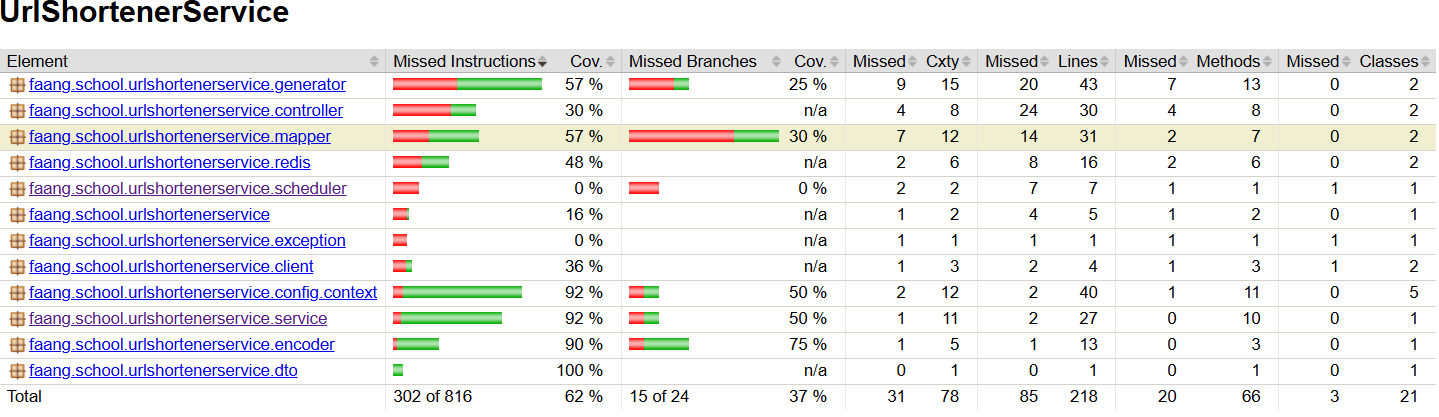
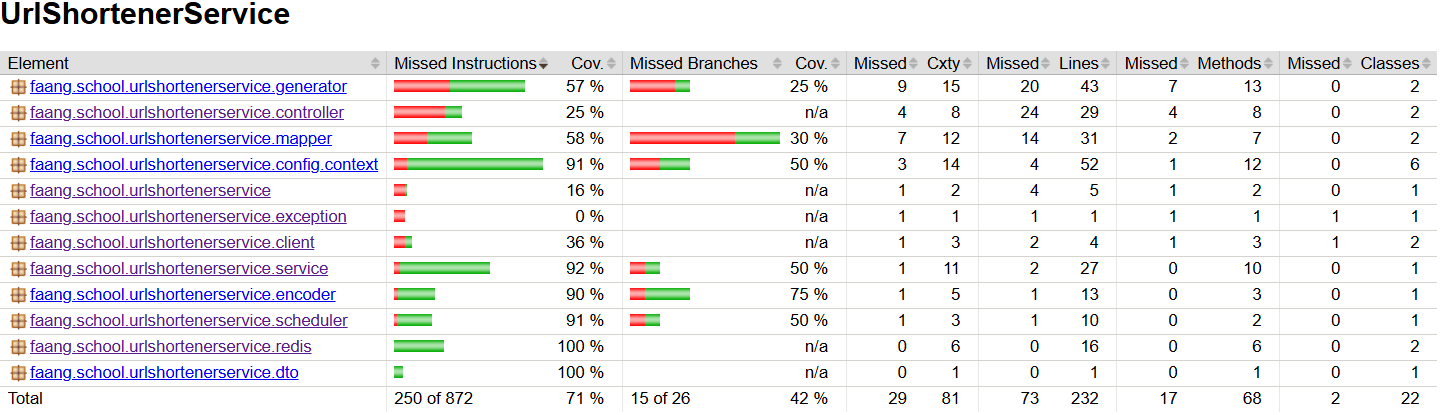
CleanerSchedulerTest, UrlCacheRepositoryTest, UrlCacheServiceTest are added

Changed region(s): [[0.0, 0.1157, 1.0, 0.9831], [0.0, 0.0, 0.214, 0.0578], [0.795, 0.4627, 0.8256, 0.5783]]

diff --git a/src/test/java/faang/school/urlshortenerservice/scheduler/CleanerSchedulerTest.java b/src/test/java/faang/school/urlshortenerservice/scheduler/CleanerSchedulerTest.java
@@ -1,0 +1,56 @@
+package faang.school.urlshortenerservice.scheduler;
+
+import faang.school.urlshortenerservice.entity.Hash;
+import faang.school.urlshortenerservice.mapper.HashMapper;
+import faang.school.urlshortenerservice.repository.HashRepository;
+import faang.school.urlshortenerservice.repository.UrlRepository;
+import org.junit.jupiter.api.BeforeEach;
+import org.junit.jupiter.api.Test;
+import org.junit.jupiter.api.extension.ExtendWith;
+import org.mockito.InjectMocks;
+import org.mockito.Mock;
+import org.mockito.junit.jupiter.MockitoExtension;
+import org.springframework.test.util.ReflectionTestUtils;
+
+import java.util.Collection;
+import java.util.List;
+
+import static org.mockito.ArgumentMatchers.any;
+import static org.mockito.ArgumentMatchers.anyString;
+import static org.mockito.ArgumentMatchers.argThat;
+import static org.mockito.Mockito.verify;
+import static org.mockito.Mockito.when;
+
+@ExtendWith(MockitoExtension.class)
+class CleanerSchedulerTest {
+    @Mock
+    private  UrlRepository urlRepository;
+    @Mock
+    private  HashRepository hashRepository;
+    @Mock
+    private  HashMapper hashMapper;
+    @InjectMocks
+    private CleanerScheduler cleanerScheduler;
+
+    @BeforeEach
+    void setUp() {
+        ReflectionTestUtils.setField(cleanerScheduler, "monthsBeforeExpiration", 6);
+    }
+
+    @Test
+    void shouldRemoveExpiredUrlsAndSaveHashes() {
+        // given - precondition
+        var deletedHashes = List.of("abc123", "def456");
+
+        when(urlRepository.deleteUrlsOlderThan(any())).thenReturn(deletedHashes);
+        when(hashMapper.toEntity(anyString()))
+                .thenAnswer(invocation -> new Hash(invocation.getArgument(0)));
+
+        // when - action
+        cleanerScheduler.removeExpiredUrls();
+
+        // then - verify the output
+        verify(urlRepository).deleteUrlsOlderThan(any());
+        verify(hashRepository).saveAll(argThat(entities -> ((Collection<?>) entities).size() == 2));
+    }
+}

diff --git a/src/test/java/faang/school/urlshortenerservice/redis/UrlCacheRepositoryTest.java b/src/test/java/faang/school/urlshortenerservice/redis/UrlCacheRepositoryTest.java
@@ -1,0 +1,47 @@
+package faang.school.urlshortenerservice.redis;
+
+import org.junit.jupiter.api.BeforeEach;
+import org.junit.jupiter.api.Test;
+import org.junit.jupiter.api.extension.ExtendWith;
+import org.mockito.Mock;
+import org.mockito.Mockito;
+import org.mockito.junit.jupiter.MockitoExtension;
+import org.springframework.data.redis.core.HashOperations;
+import org.springframework.data.redis.core.RedisTemplate;
+
+import static faang.school.urlshortenerservice.util.TestDataFactory.HASH;
+import static faang.school.urlshortenerservice.util.TestDataFactory.HASH_KEY;
+import static faang.school.urlshortenerservice.util.TestDataFactory.createUrlHash;
+import static org.assertj.core.api.Assertions.assertThat;
+import static org.mockito.Mockito.when;
+
+@ExtendWith(MockitoExtension.class)
+class UrlCacheRepositoryTest {
+    @Mock
+    private RedisTemplate<String, UrlHash> redisTemplate;
+    @Mock
+    private HashOperations<String, String, UrlHash> hashOperations;
+
+    private UrlCacheRepository urlCacheRepository;
+
+    @BeforeEach
+    void setUp() {
+        Mockito.<HashOperations<String, String, UrlHash>>when(redisTemplate.opsForHash())
+                .thenReturn(hashOperations);
+        urlCacheRepository = new UrlCacheRepository(redisTemplate);
+    }
+
+    @Test
+    void givenValidHash_WhenGetUrl_ThenReturnUrlHash() {
+        // given - precondition
+        var expectedResult = createUrlHash();
+        when(hashOperations.get(HASH_KEY, HASH)).thenReturn(expectedResult);
+
+        // when - action
+        var actualResult = urlCacheRepository.getUrl(HASH);
+
+        // then - verify the output
+        assertThat(actualResult.isPresent()).isTrue();
+        assertThat(actualResult.get()).isEqualTo(expectedResult);
+    }
+}

diff --git a/src/main/java/faang/school/urlshortenerservice/scheduler/CleanerScheduler.java b/src/main/java/faang/school/urlshortenerservice/scheduler/CleanerScheduler.java
@@ -5,6 +5,7 @@ import faang.school.urlshortenerservice.repository.HashRepository;
 import faang.school.urlshortenerservice.repository.UrlRepository;
 import jakarta.transaction.Transactional;
 import lombok.RequiredArgsConstructor;
+import lombok.extern.slf4j.Slf4j;
 import org.springframework.beans.factory.annotation.Value;
 import org.springframework.scheduling.annotation.Scheduled;
 import org.springframework.stereotype.Component;
@@ -13,6 +14,7 @@ import java.time.LocalDateTime;
 
 @Component
 @RequiredArgsConstructor
+@Slf4j
 public class CleanerScheduler {
     @Value("${app.scheduling.removal.months_before_expiration}")
     private int monthsBeforeExpiration;
@@ -24,13 +26,16 @@ public class CleanerScheduler {
     @Scheduled(cron = "${app.scheduling.removal.cron}")
     @Transactional
     public void removeExpiredUrls(){
-        var expirationTime = LocalDateTime.now().minusMonths(monthsBeforeExpiration);
-        var deletedHashes = urlRepository.deleteUrlsOlderThan(expirationTime);
+        var expirationCutoff = LocalDateTime.now().minusMonths(monthsBeforeExpiration);
+        var deletedHashes = urlRepository.deleteUrlsOlderThan(expirationCutoff);
 
         if (!deletedHashes.isEmpty()) {
             hashRepository.saveAll(deletedHashes.stream()
                     .map(hashMapper::toEntity)
                     .toList());
+            log.info("Removed {} expired URLs and saved {} hashes back to database.", deletedHashes.size(), deletedHashes.size());
+        } else {
+            log.info("No expired URLs found for removal at {}", expirationCutoff);
         }
     }
 }

diff --git a/src/test/java/faang/school/urlshortenerservice/redis/UrlCacheServiceTest.java b/src/test/java/faang/school/urlshortenerservice/redis/UrlCacheServiceTest.java
@@ -1,0 +1,36 @@
+package faang.school.urlshortenerservice.redis;
+
+import org.junit.jupiter.api.Test;
+import org.junit.jupiter.api.extension.ExtendWith;
+import org.mockito.InjectMocks;
+import org.mockito.Mock;
+import org.mockito.junit.jupiter.MockitoExtension;
+
+import java.util.Optional;
+
+import static faang.school.urlshortenerservice.util.TestDataFactory.HASH;
+import static faang.school.urlshortenerservice.util.TestDataFactory.createUrlHash;
+import static org.assertj.core.api.Assertions.assertThat;
+import static org.mockito.Mockito.when;
+
+@ExtendWith(MockitoExtension.class)
+class UrlCacheServiceTest {
+    @Mock
+    private UrlCacheRepository urlCacheRepository;
+    @InjectMocks
+    private UrlCacheService urlCacheService;
+
+    @Test
+    void givenValidHash_WhenGetUrl_ThenReturnUrl() {
+        // given - precondition
+        var urlHash = createUrlHash();
+        when(urlCacheRepository.getUrl(HASH)).thenReturn(Optional.of(urlHash));
+
+        // when - action
+        var actualResult = urlCacheService.getUrl(HASH);
+
+        // then - verify the output
+        assertThat(actualResult.isPresent()).isTrue();
+        assertThat(actualResult.get()).isEqualTo(urlHash.getUrl());
+    }
+}

diff --git a/src/test/java/faang/school/urlshortenerservice/util/TestDataFactory.java b/src/test/java/faang/school/urlshortenerservice/util/TestDataFactory.java
@@ -2,6 +2,7 @@ package faang.school.urlshortenerservice.util;
 
 import faang.school.urlshortenerservice.dto.UrlDto;
 import faang.school.urlshortenerservice.entity.Url;
+import faang.school.urlshortenerservice.redis.UrlHash;
 import lombok.experimental.UtilityClass;
 
 import java.time.LocalDateTime;
@@ -14,7 +15,7 @@ public final class TestDataFactory {
     public static final String URL = "http://example.com/1";
     public static final String SHORT_URL_PREFIX = "my_short_url/";
     public static final String SHORT_URL = SHORT_URL_PREFIX + HASH;
-
+    public static final String HASH_KEY = "url";
 
     public static Url createUrl(){
         return Url.builder()
@@ -27,6 +28,13 @@ public final class TestDataFactory {
         return UrlDto.builder()
                 .url(URL)
                 .createdAt(CREATED)
+                .build();
+    }
+
+    public static UrlHash createUrlHash(){
+        return UrlHash.builder()
+                .hash(HASH)
+                .url(URL)
                 .build();
     }
 

diff --git a/src/main/java/faang/school/urlshortenerservice/redis/UrlHash.java b/src/main/java/faang/school/urlshortenerservice/redis/UrlHash.java
@@ -2,6 +2,7 @@ package faang.school.urlshortenerservice.redis;
 
 import jakarta.persistence.Id;
 import jakarta.validation.constraints.NotNull;
+import lombok.Builder;
 import lombok.Data;
 import org.hibernate.validator.constraints.URL;
 import org.springframework.data.redis.core.RedisHash;
@@ -10,6 +11,7 @@ import java.io.Serializable;
 
 @Data
 @RedisHash(value = "url", timeToLive = 86400)
+@Builder
 public class UrlHash implements Serializable {
     @Id
     @NotNull

diff --git a/src/main/java/faang/school/urlshortenerservice/repository/UrlRepository.java b/src/main/java/faang/school/urlshortenerservice/repository/UrlRepository.java
@@ -19,7 +19,7 @@ public interface UrlRepository extends JpaRepository<Url, String> {
     @Query(value = "DELETE FROM url " +
             "WHERE created_at <= :time " +
             "RETURNING hash", nativeQuery = true)
-    List<String> deleteUrlsOlderThan(@Param("time") LocalDateTime expirationTime);
+    List<String> deleteUrlsOlderThan(@Param("time") LocalDateTime expirationCutoff);
 
     Optional<Url> findByHash(String hash);
 }

diff --git a/src/main/java/faang/school/urlshortenerservice/entity/Hash.java b/src/main/java/faang/school/urlshortenerservice/entity/Hash.java
@@ -2,10 +2,16 @@ package faang.school.urlshortenerservice.entity;
 
 import jakarta.persistence.Entity;
 import jakarta.persistence.Id;
-import lombok.Data;
+import lombok.AllArgsConstructor;
+import lombok.Getter;
+import lombok.NoArgsConstructor;
+import lombok.Setter;
 
 @Entity
-@Data
+@Getter
+@Setter
+@NoArgsConstructor
+@AllArgsConstructor
 public class Hash {
     @Id
     private String hash;

diff --git a/README.md b/README.md
@@ -58,7 +58,7 @@ This workflow ensures **continuous integration and deployment**, making the appl
 
 **Url Shortener Service** uses **JaCoCo** to generate code coverage reports and enforce a minimum coverage threshold during testing.
 
-- A **minimum line coverage threshold of 60%** is enforced.
+- A **minimum line coverage threshold of 68%** is enforced.
 - The **build will fail** if the actual coverage is below this threshold.
 - Test coverage reports are generated in multiple formats: **HTML** and **XML**.
 
